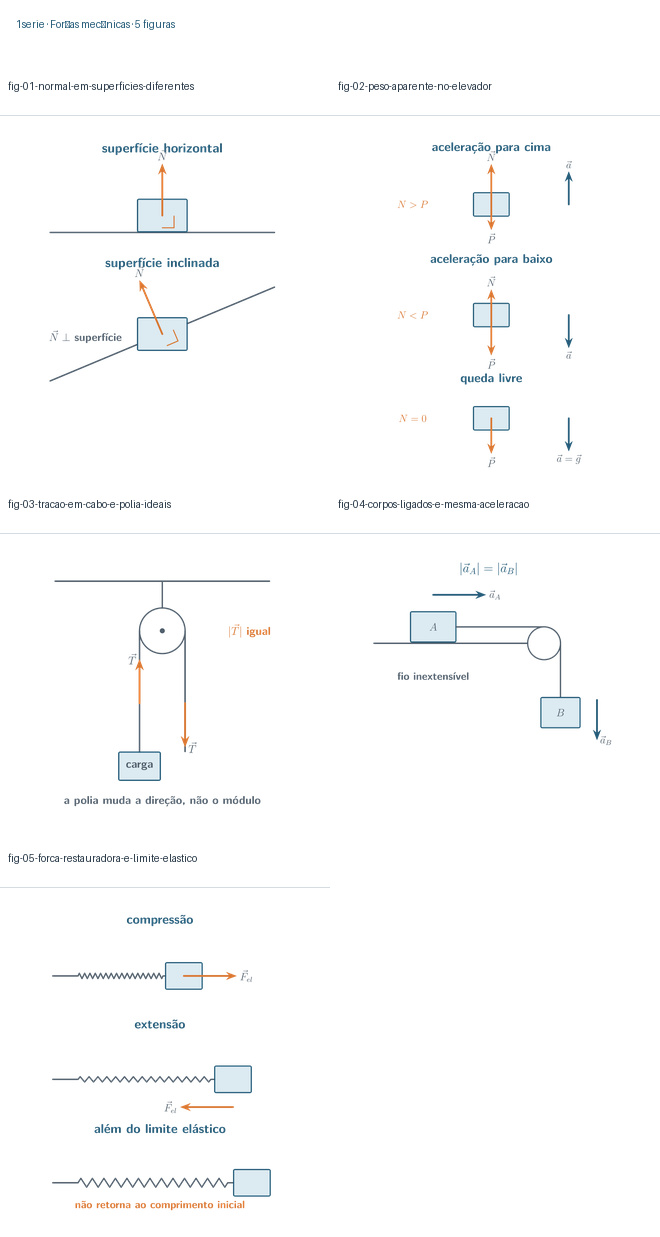
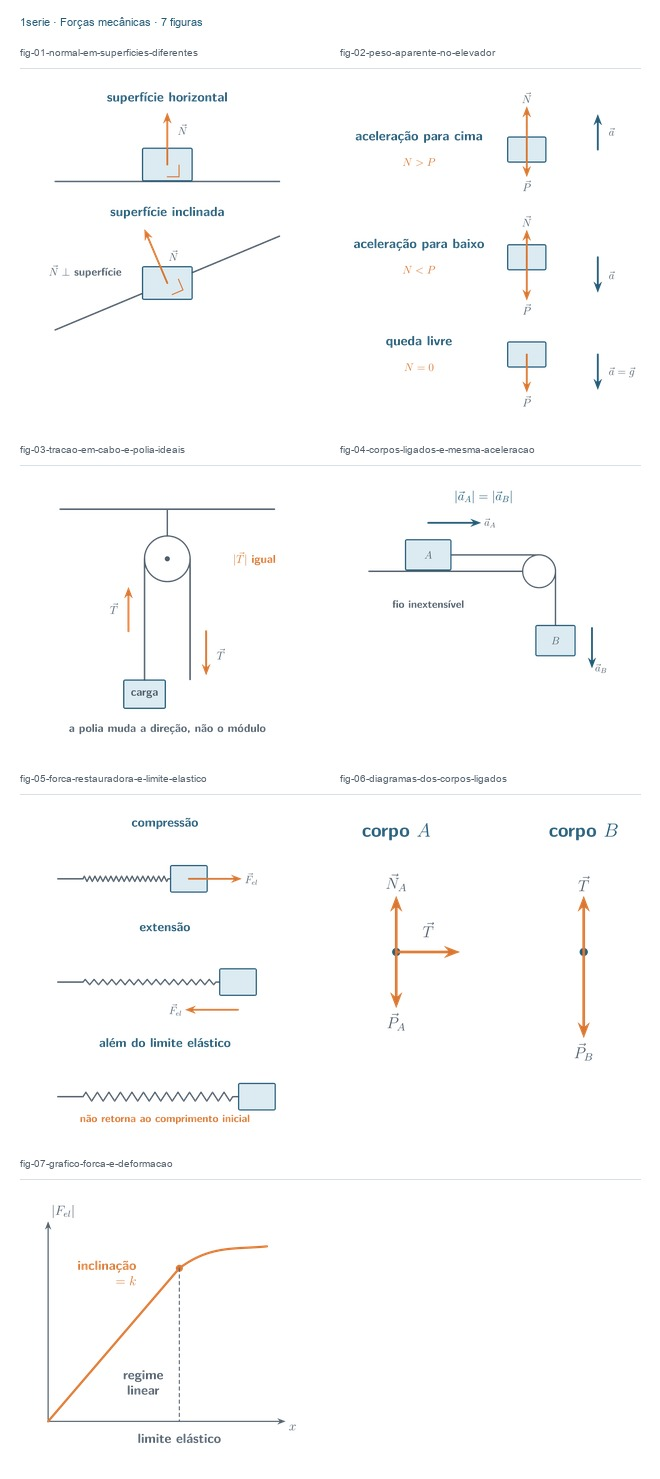
Revisa imagens TikZ de Física da 1ª série no Bloco 1
Auditoria dos dois capítulos contra PADRAO-DE-IMAGENS-TIKZ.md.

Seis figuras existentes feriam os respiros mínimos e foram refeitas com
os mesmos IDs: rótulos colidindo com títulos de painel, corredores de
4-10 px entre casos empilhados (o padrão pede 16) e, o caso mais grave,
os vetores de tração desenhados sobre a própria corda em vez de uma
faixa paralela.

Quatro figuras novas cobrem lacunas reais do texto — o diagrama de corpo
livre, que é a ferramenta padrão da série e não tinha peça; o par
livro/Terra; os diagramas dos corpos ligados, que mostram de onde saem
as duas equações do exemplo; e o gráfico do módulo da força elástica
pela deformação, sem área sob a reta, que seria energia potencial.
Entram como páginas 6 e 7 de cada fonte para não renomear arquivos já
publicados; a posição no Markdown segue a pergunta pedagógica.

As 14 peças foram revisadas a 300 px e em coluna de 720 px, publicadas e
validadas por SHA-256. A coleção de Física passa a 107 PNGs no commit
público 1addc5b0379a.

diff --git a/_tikz/fisica/1serie/forcas-mecanicas/figuras.tex b/_tikz/fisica/1serie/forcas-mecanicas/figuras.tex
@@ -11,8 +11,8 @@
   \draw[fisica superficie] (0.85,6.35) -- (9.45,6.35);
   \node[fisica corpo, minimum width=1.9cm, minimum height=1.25cm] (A)
     at (5.15,7.0) {};
-  \draw[fisica forca] (A.center) -- ++(0,2.0)
-    node[fisica rotulo, above] {$\vec N$};
+  \draw[fisica forca] (A.center) -- ++(0,2.0);
+  \node[fisica rotulo, anchor=west] at (5.45,8.35) {$\vec N$};
   \draw[elevelaranja, line width=1.1pt] (5.15,6.53) -- ++(0.45,0) -- ++(0,0.45);
 
   \node[font=\Large\bfseries, text=eleveazul] at (5.15,5.15)
@@ -21,49 +21,50 @@
   \coordinate (O) at (5.15,2.45);
   \begin{scope}[shift={(O)}, rotate=23]
     \node[fisica corpo, minimum width=1.9cm, minimum height=1.25cm] (B) at (0,0) {};
-    \draw[fisica forca] (B.center) -- ++(0,2.25)
-      node[fisica rotulo, above] {$\vec N$};
+    \draw[fisica forca] (B.center) -- ++(0,2.25);
     \draw[elevelaranja, line width=1.1pt] (0,-0.48) -- ++(0.45,0) -- ++(0,0.45);
   \end{scope}
-  \node[fisica rotulo] at (2.2,2.35) {$\vec N\perp$ superfície};
+  \node[fisica rotulo, anchor=west] at (5.10,3.51) {$\vec N$};
+  \node[fisica rotulo] at (2.0,2.9) {$\vec N\perp$ superfície};
 \end{tikzpicture}
 
 % FIGURA 2 — fig-02-peso-aparente-no-elevador
 \begin{tikzpicture}[fisica figura, x=1cm, y=1cm]
-  \path[use as bounding box] (-0.2,-1.25) rectangle (11.4,12.1);
-  \node[font=\Large\bfseries, text=eleveazul] at (5.45,11.55)
+  \path[use as bounding box] (-0.2,-2.4) rectangle (10.6,10.2);
+
+  \node[font=\Large\bfseries, text=eleveazul] at (2.5,8.18)
     {aceleração para cima};
-  \coordinate (A) at (5.45,9.25);
+  \node[fisica medida] at (2.5,7.22) {$N>P$};
+  \coordinate (A) at (6.6,7.7);
   \node[fisica corpo, minimum width=1.45cm, minimum height=0.95cm] at (A) {};
   \draw[fisica forca] (A) -- ++(0,1.65)
     node[fisica rotulo, above] {$\vec N$};
   \draw[fisica forca] (A) -- ++(0,-1.05)
     node[fisica rotulo, below] {$\vec P$};
-  \draw[fisica movimento] (8.6,9.25) -- ++(0,1.35)
-    node[fisica rotulo, above] {$\vec a$};
-  \node[fisica medida] at (2.25,9.25) {$N>P$};
+  \draw[fisica movimento] (9.3,7.7) -- ++(0,1.35);
+  \node[fisica rotulo, anchor=west] at (9.62,8.38) {$\vec a$};
 
-  \node[font=\Large\bfseries, text=eleveazul] at (5.45,7.0)
+  \node[font=\Large\bfseries, text=eleveazul] at (2.5,4.08)
     {aceleração para baixo};
-  \coordinate (B) at (5.45,4.75);
+  \node[fisica medida] at (2.5,3.12) {$N<P$};
+  \coordinate (B) at (6.6,3.6);
   \node[fisica corpo, minimum width=1.45cm, minimum height=0.95cm] at (B) {};
   \draw[fisica forca] (B) -- ++(0,1.05)
     node[fisica rotulo, above] {$\vec N$};
   \draw[fisica forca] (B) -- ++(0,-1.65)
     node[fisica rotulo, below] {$\vec P$};
-  \draw[fisica movimento] (8.6,4.75) -- ++(0,-1.35)
-    node[fisica rotulo, below] {$\vec a$};
-  \node[fisica medida] at (2.25,4.75) {$N<P$};
+  \draw[fisica movimento] (9.3,3.6) -- ++(0,-1.35);
+  \node[fisica rotulo, anchor=west] at (9.62,2.92) {$\vec a$};
 
-  \node[font=\Large\bfseries, text=eleveazul] at (5.45,2.15)
+  \node[font=\Large\bfseries, text=eleveazul] at (2.5,0.38)
     {queda livre};
-  \coordinate (C) at (5.45,0.55);
+  \node[fisica medida] at (2.5,-0.58) {$N=0$};
+  \coordinate (C) at (6.6,-0.1);
   \node[fisica corpo, minimum width=1.45cm, minimum height=0.95cm] at (C) {};
   \draw[fisica forca] (C) -- ++(0,-1.45)
     node[fisica rotulo, below] {$\vec P$};
-  \node[fisica medida] at (2.25,0.55) {$N=0$};
-  \draw[fisica movimento] (8.6,0.55) -- ++(0,-1.35)
-    node[fisica rotulo, below] {$\vec a=\vec g$};
+  \draw[fisica movimento] (9.3,-0.1) -- ++(0,-1.35);
+  \node[fisica rotulo, anchor=west] at (9.62,-0.775) {$\vec a=\vec g$};
 \end{tikzpicture}
 
 % FIGURA 3 — fig-03-tracao-em-cabo-e-polia-ideais
@@ -77,10 +78,10 @@
   \draw[elevecinza, line width=1.6pt] (5.85,6.7) -- (5.85,2.2);
   \node[fisica corpo, minimum width=1.55cm, minimum height=1.05cm] at (4.15,1.65)
     {carga};
-  \draw[fisica forca] (4.15,4.0) -- ++(0,1.65)
-    node[fisica rotulo, left] {$\vec T$};
-  \draw[fisica forca] (5.85,4.0) -- ++(0,-1.65)
-    node[fisica rotulo, right] {$\vec T$};
+  \draw[fisica forca] (3.55,4.0) -- ++(0,1.65);
+  \node[fisica rotulo, anchor=east] at (3.25,4.85) {$\vec T$};
+  \draw[fisica forca] (6.45,4.0) -- ++(0,-1.65);
+  \node[fisica rotulo, anchor=west] at (6.75,3.15) {$\vec T$};
   \node[fisica medida] at (8.25,6.7) {$|\vec T|$ igual};
   \node[font=\large\bfseries, text=elevecinza] at (5.0,0.35)
     {a polia muda a direção, não o módulo};
@@ -108,7 +109,7 @@
 
 % FIGURA 5 — fig-05-forca-restauradora-e-limite-elastico
 \begin{tikzpicture}[fisica figura, x=1cm, y=1cm]
-  \path[use as bounding box] (-0.2,-0.2) rectangle (11.1,11.8);
+  \path[use as bounding box] (-0.2,-0.9) rectangle (11.1,11.8);
   \node[font=\Large\bfseries, text=eleveazul] at (5.25,11.25) {compressão};
   \draw[fisica superficie] (1.0,9.05) -- (2.0,9.05);
   \draw[elevecinza, line width=1.5pt, decorate,
@@ -129,14 +130,55 @@
   \draw[fisica forca] ($(B.south)+(0,-0.55)$) -- ++(-2.1,0)
     node[fisica rotulo, left] {$\vec F_{el}$};
 
-  \node[font=\Large\bfseries, text=eleveazul] at (5.25,3.0)
+  \node[font=\Large\bfseries, text=eleveazul] at (5.25,2.55)
     {além do limite elástico};
-  \draw[fisica superficie] (1.0,0.85) -- (2.0,0.85);
+  \draw[fisica superficie] (1.0,0.40) -- (2.0,0.40);
   \draw[elevecinza, line width=1.5pt, decorate,
     decoration={zigzag, segment length=13pt, amplitude=5pt}]
-    (2.0,0.85) -- (8.15,0.85);
-  \node[fisica corpo, minimum width=1.45cm, minimum height=1.05cm] at (8.9,0.85) {};
-  \node[fisica medida] at (5.25,-0.05) {não retorna ao comprimento inicial};
+    (2.0,0.40) -- (8.15,0.40);
+  \node[fisica corpo, minimum width=1.45cm, minimum height=1.05cm] at (8.9,0.40) {};
+  \node[fisica medida] at (5.25,-0.50) {não retorna ao comprimento inicial};
+\end{tikzpicture}
+
+
+% FIGURA 6 — fig-06-diagramas-dos-corpos-ligados
+\begin{tikzpicture}[fisica figura, x=1cm, y=1cm]
+  \path[use as bounding box] (1.4,1.0) rectangle (8.8,7.7);
+  \node[font=\Large\bfseries, text=eleveazul] at (2.6,7.2) {corpo $A$};
+  \node[fisica ponto] at (2.6,4.0) {};
+  \draw[fisica forca] (2.6,4.0) -- ++(0,1.5)
+    node[fisica rotulo, above] {$\vec N_A$};
+  \draw[fisica forca] (2.6,4.0) -- ++(0,-1.5)
+    node[fisica rotulo, below] {$\vec P_A$};
+  \draw[fisica forca] (2.6,4.0) -- ++(1.7,0);
+  \node[fisica rotulo, anchor=south] at (3.45,4.30) {$\vec T$};
+
+  \node[font=\Large\bfseries, text=eleveazul] at (7.6,7.2) {corpo $B$};
+  \node[fisica ponto] at (7.6,4.0) {};
+  \draw[fisica forca] (7.6,4.0) -- ++(0,1.5)
+    node[fisica rotulo, above] {$\vec T$};
+  \draw[fisica forca] (7.6,4.0) -- ++(0,-2.3)
+    node[fisica rotulo, below] {$\vec P_B$};
+\end{tikzpicture}
+
+
+% FIGURA 7 — fig-07-grafico-forca-e-deformacao
+\begin{tikzpicture}[fisica figura, x=1cm, y=1cm]
+  \path[use as bounding box] (-0.6,-0.9) rectangle (8.4,7.2);
+  \draw[fisica eixo] (0,0) -- (7.6,0)
+    node[fisica rotulo, below right] {$x$};
+  \draw[fisica eixo] (0,0) -- (0,6.4)
+    node[fisica rotulo, above right] {$|F_{el}|$};
+  \draw[fisica grafico] (0,0) -- (4.2,4.9);
+  \draw[fisica grafico] (4.2,4.9) .. controls (5.2,5.65) and (6.0,5.5)
+    .. (7.0,5.6);
+  \fill[elevelaranja] (4.2,4.9) circle (3.2pt);
+  \draw[fisica auxiliar] (4.2,4.9) -- (4.2,0);
+  \node[fisica rotulo, anchor=north] at (4.2,-0.30) {limite elástico};
+  \node[fisica rotulo, align=center, anchor=west] at (2.3,1.25)
+    {regime\\linear};
+  \node[fisica medida, align=right, anchor=east] at (2.9,4.75)
+    {inclinação\\$=k$};
 \end{tikzpicture}
 
 \end{document}

diff --git a/_tikz/fisica/1serie/leis-de-newton/figuras.tex b/_tikz/fisica/1serie/leis-de-newton/figuras.tex
@@ -37,36 +37,36 @@
   \draw[eleveazul, fill=eleveazulclaro, line width=1.4pt, rounded corners=5pt]
     (1.15,2.0) rectangle (9.3,5.25);
   \draw[elevecinza, line width=1.4pt] (2.3,2.0) -- (2.3,3.6);
-  \node[fisica corpo, circle, minimum size=0.6cm] (P) at (5.5,3.65) {};
+  \node[fisica corpo, circle, minimum size=0.7cm] (P) at (5.5,3.65) {};
   \draw[elevecinza, line width=1.4pt] (4.6,2.35) -- (5.2,3.45);
   \draw[elevelaranja, line width=1.7pt] (4.6,4.75) -- (5.35,3.8);
   \draw[elevecinza, fill=white, line width=1.5pt] (2.7,1.05) circle (0.65);
   \draw[elevecinza, fill=white, line width=1.5pt] (7.9,1.05) circle (0.65);
-  \draw[fisica movimento] ($(P.north)+(0,2.0)$) -- ++(2.45,0);
-  \node[fisica rotulo, anchor=east] at (10.45,6.25)
+  \draw[fisica forca] (P.center) -- ++(-2.1,0);
+  \node[fisica rotulo] at (3.5,2.75) {$\vec F_{\text{cinto}}$};
+  \draw[fisica movimento] (6.3,6.2) -- ++(2.6,0);
+  \node[fisica rotulo, anchor=east] at (5.95,6.2)
     {tendência de manter $\vec v$};
-  \draw[fisica forca] (P.center) -- ++(-2.1,0)
-    node[fisica rotulo, left] {$\vec F_{\text{cinto}}$};
-  \draw[fisica movimento] (8.7,6.85) -- ++(-2.6,0)
-    node[fisica rotulo, left] {carro freia};
-  \node[font=\large\bfseries, text=elevecinza] at (5.35,8.35)
+  \draw[fisica movimento] (8.9,7.45) -- ++(-2.6,0);
+  \node[fisica rotulo, anchor=east] at (5.95,7.45) {carro freia};
+  \node[font=\large\bfseries, text=elevecinza] at (5.35,8.75)
     {o cinto fornece a força que reduz a velocidade};
 \end{tikzpicture}
 
 % FIGURA 3 — fig-03-resultante-de-forcas-perpendiculares
 \begin{tikzpicture}[fisica figura, x=1cm, y=1cm]
-  \path[use as bounding box] (-0.2,-0.2) rectangle (9.6,8.6);
-  \coordinate (O) at (1.25,1.15);
-  \draw[fisica forca] (O) -- ++(4.2,0)
-    node[fisica rotulo, below=7pt] {$F_x=30\,\mathrm{N}$};
-  \draw[fisica forca] ($(O)+(4.2,0)$) -- ++(0,5.6)
-    node[fisica rotulo, right] {$F_y=40\,\mathrm{N}$};
-  \draw[fisica forca] (O) -- ++(4.2,5.6)
-    node[fisica rotulo, above left] {$F_R=50\,\mathrm{N}$};
-  \draw[fisica auxiliar] (O) -- ++(0,5.6) -- ++(4.2,0);
+  \path[use as bounding box] (-0.2,-0.2) rectangle (8.6,8.8);
+  \coordinate (O) at (1.6,1.3);
+  \draw[fisica forca] (O) -- ++(4.2,0);
+  \node[fisica rotulo, below=8pt] at ($(O)+(2.1,0)$) {$F_x=30\,\mathrm{N}$};
+  \draw[fisica forca] ($(O)+(4.2,0)$) -- ++(0,5.6);
+  \node[fisica rotulo, anchor=west] at ($(O)+(4.55,2.8)$)
+    {$F_y=40\,\mathrm{N}$};
+  \draw[fisica forca] (O) -- ++(4.2,5.6);
+  \node[fisica rotulo] at (2.42,5.06) {$F_R=50\,\mathrm{N}$};
   \draw[elevelaranja, line width=1.1pt] ($(O)+(3.65,0)$)
     -- ++(0,0.55) -- ++(0.55,0);
-  \node[font=\large\bfseries, text=elevecinza] at (5.0,7.85)
+  \node[font=\large\bfseries, text=elevecinza] at (3.7,8.1)
     {triângulo $3$--$4$--$5$};
 \end{tikzpicture}
 
@@ -104,6 +104,56 @@
   \draw[fisica auxiliar, ->] (8.25,5.0) -- (7.25,2.95);
   \node[font=\Large\bfseries, text=elevelaranja] at (5.25,7.45)
     {mesmo módulo; corpos diferentes};
+\end{tikzpicture}
+
+
+% FIGURA 6 — fig-06-diagrama-de-corpo-livre
+\begin{tikzpicture}[fisica figura, x=1cm, y=1cm]
+  \path[use as bounding box] (1.0,1.7) rectangle (9.4,11.4);
+  \node[font=\Large\bfseries, text=eleveazul] at (5.2,11.0) {cena física};
+  \draw[fisica superficie] (1.6,8.0) -- (9.0,8.0);
+  \node[fisica corpo, minimum width=1.8cm, minimum height=1.15cm] (K)
+    at (4.6,8.575) {};
+  \draw[fisica forca] (K.center) -- ++(2.3,1.3);
+  \node[fisica rotulo, anchor=west] at (7.1,9.95) {$\vec F$};
+
+  \node[font=\Large\bfseries, text=eleveazul] at (5.2,6.9)
+    {diagrama de corpo livre};
+  \coordinate (O) at (4.6,4.1);
+  \node[fisica ponto] at (O) {};
+  \draw[fisica forca] (O) -- ++(0,1.3)
+    node[fisica rotulo, above] {$\vec N$};
+  \draw[fisica forca] (O) -- ++(0,-1.6)
+    node[fisica rotulo, below] {$\vec P$};
+  \draw[fisica forca] (O) -- ++(2.08,1.2);
+  \node[fisica rotulo, anchor=south west] at (6.95,5.45) {$\vec F$};
+  \draw[fisica componente] (O) -- ++(2.08,0);
+  \node[fisica rotulo, anchor=north] at (5.64,3.80) {$F_x$};
+  \draw[fisica componente] ($(O)+(2.08,0)$) -- ++(0,1.2);
+  \node[fisica rotulo, anchor=west] at (6.95,4.7) {$F_y$};
+  \draw[fisica eixo] (1.5,2.4) -- ++(1.2,0)
+    node[fisica rotulo, right] {$x$};
+  \draw[fisica eixo] (1.5,2.4) -- ++(0,1.2)
+    node[fisica rotulo, above] {$y$};
+\end{tikzpicture}
+
+
+% FIGURA 7 — fig-07-par-livro-e-terra
+\begin{tikzpicture}[fisica figura, x=1cm, y=1cm]
+  \path[use as bounding box] (1.3,0.3) rectangle (6.7,6.0);
+  \node[fisica corpo, minimum width=2.0cm, minimum height=0.9cm] (L)
+    at (4.2,5.2) {};
+  \node[fisica rotulo, anchor=east] at (2.95,5.2) {livro};
+  \draw[fisica forca] (L.center) -- ++(0,-1.8);
+  \node[fisica rotulo, anchor=east] at (3.95,4.075) {$\vec F_{T\to L}$};
+  \begin{scope}
+    \clip (1.4,0.4) rectangle (7.0,1.6);
+    \draw[eleveazul, fill=eleveazulclaro, line width=1.6pt]
+      (4.2,-2.5) circle (3.6);
+  \end{scope}
+  \node[fisica rotulo, anchor=east] at (2.5,0.85) {Terra};
+  \draw[fisica forca] (4.2,1.1) -- ++(0,1.8);
+  \node[fisica rotulo, anchor=west] at (4.45,2.0) {$\vec F_{L\to T}$};
 \end{tikzpicture}
 
 \end{document}

diff --git a/_tikz/README.md b/_tikz/README.md
@@ -17,21 +17,38 @@ aprovados. O Markdown privado referencia esses arquivos por URL absoluta.
 - 15 Markdown sincronizados com as cópias oficiais no Google Drive;
 - repositório público auditado com somente `README.md` e 111 PNGs;
 - último commit da produção do 3º bimestre: `2fdcd844d6a909e73c4204a99445dd7d55535447`;
-- Física: 17 documentos e 103 figuras aprovadas, publicadas, indexadas,
+- Física: 17 documentos e 107 figuras aprovadas, publicadas, indexadas,
   revisadas em contexto e sincronizadas no Google Drive;
 - Matemática EF1: 18 documentos e 58 figuras aprovadas, publicadas,
   indexadas, revisadas em contexto e salvas no Google Drive;
 - Química: 5 documentos e 15 figuras aprovadas, publicadas, indexadas e
   revisadas no original, a 300 px e no capítulo em coluna de 720 px;
-- repositório público: 287 PNGs, sendo 111 de Geometria, 103 de Física,
+- repositório público: 291 PNGs, sendo 111 de Geometria, 107 de Física,
   58 de Matemática EF1 e 15 de Química;
-- commit público vigente: `04cb6b4853f64c3a51e29fafbe3bcfb4b13dda72`.
+- commit público vigente: `1addc5b0379a44995a89003d50781f5d7d10d764`.
 
 O detalhamento editorial está em `../Geometria/Acompanhamento de produção.md`; os commits da segunda etapa estão em `../Geometria/PLANO-DE-IMAGENS-TIKZ-BLOCO2.md`.
 O contrato específico do novo piloto está em
 `../Fisica/PADRAO-DE-IMAGENS-TIKZ.md`.
 O contrato visual de Química está em
 `../Quimica/PADRAO-DE-IMAGENS-TIKZ.md`.
+
+## Revisão de 04/08/2026 — Física · 1ª série · 3º Bim Bloco 1
+
+Auditoria dos dois capítulos contra `../Fisica/PADRAO-DE-IMAGENS-TIKZ.md`:
+
+- seis figuras existentes refeitas por violação de respiro — `fig-02` e
+  `fig-03` de Leis de Newton; `fig-01`, `fig-02`, `fig-03` e `fig-05` de
+  Forças mecânicas. O caso mais grave era a tração desenhada sobre a própria
+  corda, contra a regra de faixa paralela;
+- quatro figuras novas: `fig-06-diagrama-de-corpo-livre` e
+  `fig-07-par-livro-e-terra` (Leis de Newton);
+  `fig-06-diagramas-dos-corpos-ligados` e
+  `fig-07-grafico-forca-e-deformacao` (Forças mecânicas). As novas entram
+  como páginas 6 e 7 da fonte; a posição no Markdown segue a pergunta
+  pedagógica, não o número do arquivo;
+- as 14 peças foram revisadas a 300 px, publicadas, validadas por hash e
+  indexadas no Markdown privado e na cópia do Google Drive.
 
 Os capítulos podem permanecer fora deste repositório, desde que sua raiz
 privada esteja listada em `raizes_markdown_permitidas` no `config.json`. O

diff --git a/Fisica/_MEMORIA.md b/Fisica/_MEMORIA.md
@@ -75,6 +75,7 @@ Kit criado em **19/07/2026** a partir das instruções + memória do projeto Cla
 | 23/07/2026 | **Demais imagens de Física produzidas localmente:** os 16 capítulos restantes foram mapeados em `PLANO-DE-IMAGENS-TIKZ.md`; 95 fontes/páginas TikZ e seus manifestos foram criados, renderizados em PNG transparente a 300 DPI, revisados no original e a 300 px sobre branco e validados localmente. As galerias estão em `REVISAO-TIKZ-DEMAIS-CAPITULOS.md`. Publicação, indexação, revisão diagramada e sincronização aguardam aprovação visual. |
 | 23/07/2026 | **Coleção TikZ de Física concluída:** após aprovação do Felipe, as 95 figuras restantes foram registradas como aprovadas, publicadas nos commits por capítulo até `8a79200b98f7`, indexadas nos 16 Markdown e conferidas em coluna de 720 px. Os 95 hashes públicos coincidem com os builds locais; os 16 capítulos passam no validador e foram substituídos nos mesmos arquivos do Google Drive. A leitura de retorno confirmou conteúdo byte a byte idêntico e exatamente 95 blocos TikZ. A coleção fecha com 103 PNGs de Física. |
 | 23/07/2026 | **Convenção química corrigida:** a falha de mhchem confirmada no render de Química foi propagada para Física. O autor passou a usar `\mathrm{}` e `\rightarrow` em eventuais equações químicas, e o validador reprova qualquer ocorrência de `\ce{}`. |
+| 04/08/2026 | **Auditoria TikZ da 1ª série · Bloco 1.** Reler o padrão contra figuras já aprovadas encontra violações que a aprovação original deixou passar: seis das dez peças feriam respiro — a pior era a tração desenhada **sobre a própria corda**, e não numa faixa paralela. Refeitas as seis e criadas quatro novas nas lacunas reais do texto: diagrama de corpo livre (a ferramenta padrão da série não tinha figura), par livro/Terra, DCL dos corpos ligados e gráfico $\|F_{el}\| \times x$. Duas lições de método: (1) **figura nova entra como última página da fonte** (`fig-06`, `fig-07`) — a posição no Markdown segue a pergunta pedagógica, não o número do arquivo; renumerar geraria órfãos no repo público, que o publicador não remove; (2) a conferência de coluna de 720 px é a que pega altura excessiva — o primeiro DCL saiu com 912 px e foi comprimido para 824 px, faixa das demais. Reindexar com `publicado_commit` preenchido troca as URLs de `/main/` para commit fixo. Coleção de Física: **107 PNGs**, commit `1addc5b0379a`. |
 
 ---
 

diff --git a/Fisica/REVISAO-TIKZ-DEMAIS-CAPITULOS.md b/Fisica/REVISAO-TIKZ-DEMAIS-CAPITULOS.md
@@ -68,11 +68,11 @@ de leitura definida pelo padrão. A aprovação deve considerar:
 
 ### Leis de Newton
 
-![Galeria com as cinco figuras de Leis de Newton da 1ª série](../_tikz/fisica/revisao-300px/galeria-1serie-leis-de-newton.jpg)
+![Galeria com as sete figuras de Leis de Newton da 1ª série](../_tikz/fisica/revisao-300px/galeria-1serie-leis-de-newton.jpg)
 
 ### Forças mecânicas
 
-![Galeria com as cinco figuras de Forças mecânicas da 1ª série](../_tikz/fisica/revisao-300px/galeria-1serie-forcas-mecanicas.jpg)
+![Galeria com as sete figuras de Forças mecânicas da 1ª série](../_tikz/fisica/revisao-300px/galeria-1serie-forcas-mecanicas.jpg)
 
 ## 2ª série
 
@@ -107,3 +107,20 @@ de leitura definida pelo padrão. A aprovação deve considerar:
 5. 95 hashes públicos confirmados;
 6. 16 capítulos sincronizados nos mesmos arquivos do Google Drive;
 7. leitura de retorno idêntica aos arquivos locais.
+
+## Revisão de 04/08/2026 — 1ª série · Bloco 1
+
+Os números acima são o registro da rodada original. A auditoria dos dois
+capítulos da 1ª série contra `PADRAO-DE-IMAGENS-TIKZ.md` alterou o conjunto:
+
+- **seis peças refeitas** por violação de respiro — `fig-02` e `fig-03` de
+  Leis de Newton; `fig-01`, `fig-02`, `fig-03` e `fig-05` de Forças
+  mecânicas. A mais grave era a tração desenhada sobre a própria corda,
+  contra a regra de faixa paralela do §3;
+- **quatro peças novas**, páginas 6 e 7 de cada fonte — o diagrama de corpo
+  livre e o par livro/Terra em Leis de Newton; os diagramas dos corpos
+  ligados e o gráfico $|F_{el}| \times x$ em Forças mecânicas;
+- as galerias desta seção foram regeradas com as 14 peças vigentes.
+
+Com isso a coleção de Física passa de 103 para **107 PNGs** e o commit
+público vigente é `1addc5b0379a`.

diff --git a/Fisica/Acompanhamento de produção.md b/Fisica/Acompanhamento de produção.md
@@ -70,6 +70,14 @@
 - [x] Dezesseis capítulos revisados em coluna de 720 px, sem sobreposição ou extravasamento.
 - [x] Dezesseis arquivos sincronizados no Google Drive e conferidos por leitura de retorno.
 
-**Commit público vigente da coleção:** `8a79200b98f7`.
+- [x] **04/08/2026 — auditoria da 1ª série · Bloco 1:** seis figuras refeitas
+  por violação de respiro (a mais grave, a tração desenhada sobre a corda) e
+  quatro figuras novas — diagrama de corpo livre e par livro/Terra em Leis de
+  Newton; diagramas dos corpos ligados e gráfico $|F_{el}| \times x$ em Forças
+  mecânicas. As 14 peças foram revisadas a 300 px, publicadas, validadas por
+  hash e indexadas no Markdown privado e no Google Drive. Coleção de Física:
+  **107 PNGs**.
+
+**Commit público vigente da coleção:** `1addc5b0379a`.
 
 **Galerias aprovadas:** `REVISAO-TIKZ-DEMAIS-CAPITULOS.md`.

diff --git a/Fisica/PLANO-DE-IMAGENS-TIKZ.md b/Fisica/PLANO-DE-IMAGENS-TIKZ.md
@@ -212,13 +212,19 @@ As 95 figuras abaixo seguem o padrão já aprovado:
 | 7º ano | 3 | 13 |
 | 8º ano | 2 | 15 |
 | 9º ano | 2 | 12 |
-| 1ª série | 2 restantes | 10 |
+| 1ª série | 2 restantes | 10 (+4 em 04/08/2026) |
 | 2ª série | 2 | 16 |
 | 3ª série | 3 | 18 |
 | **Total restante** | **16** | **95** |
 
 Somadas às oito figuras do piloto, a coleção de Física tem **103 PNGs**
 aprovados, publicados, indexados e sincronizados.
+
+Em 04/08/2026 a 1ª série recebeu quatro figuras adicionais na revisão do
+Bloco 1 — `fig-06-diagrama-de-corpo-livre` e `fig-07-par-livro-e-terra` no
+Capítulo 1; `fig-06-diagramas-dos-corpos-ligados` e
+`fig-07-grafico-forca-e-deformacao` no Capítulo 2 —, elevando a coleção de
+Física a **107 PNGs**. Detalhes em `../_tikz/README.md`.
 
 ## Execução
 
